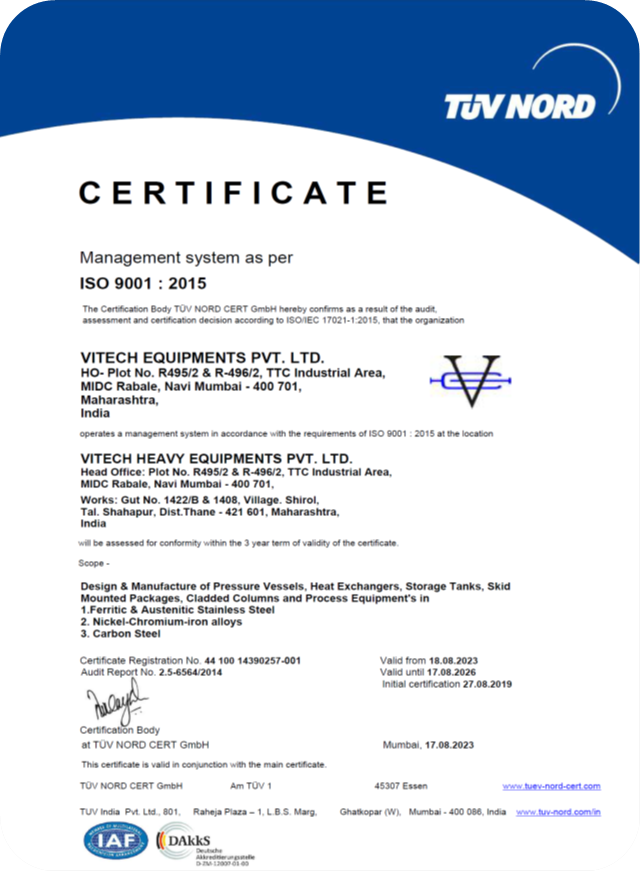
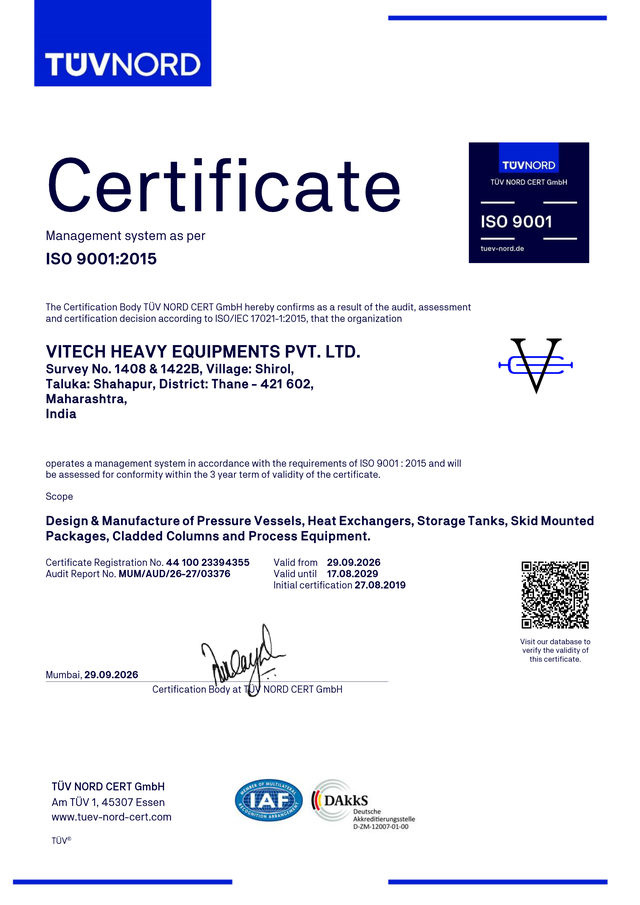
Slides 128-129: update ISO certificates to 2026 TUV NORD issues
Replace the four expiring cert scans with the newly issued ones
(all valid until 17.08.2029):
- 128: VHEPL ISO 9001 (44 100 23394355), VEPL ISO 9001 (44 100 14390257)
- 129: VHEPL ISO 14001 (44 104 21393201), ISO 45001 (44 126 21393201)

Rendered from the source PDFs at 4x and downscaled to the existing
asset dimensions, so the markup is unchanged. Retitled each slide to
the standards it actually shows and refreshed the captions with the
new validity date.

diff --git a/index.html b/index.html
@@ -2117,20 +2117,20 @@
     <section class="slide tpl-gallery" id="s122" data-section="Certifications">
       <div class="slide-inner">
         <div class="eyebrow reveal">ISO</div>
-        <h2 class="slide-title reveal reveal-d1">ISO — QMS, EMS & OHSAS Certifications</h2>
+        <h2 class="slide-title reveal reveal-d1">ISO 9001:2015 — Quality Management Systems</h2>
         
         <div class="gallery-grid reveal reveal-d2" style="grid-template-columns: repeat(2, 1fr)"><div class="media-frame"><img class="media-blur" data-src="assets/images/slides/slide125_img02.png" alt="" aria-hidden="true" loading="lazy"><img class="media-full" data-src="assets/images/slides/slide125_img02.png" alt="" loading="lazy"></div><div class="media-frame"><img class="media-blur" data-src="assets/images/slides/slide125_img03.png" alt="" aria-hidden="true" loading="lazy"><img class="media-full" data-src="assets/images/slides/slide125_img03.png" alt="" loading="lazy"></div></div>
-        <p class="gallery-caption reveal reveal-d3">ISO 9001:2015 QMS (VEPL, Rabale &amp; VHEPL, Shahapur) · ISO 14001:2015 EMS (VHEPL, Shahapur) · ISO 45001:2018 OHSAS (VHEPL, Shahapur)</p>
+        <p class="gallery-caption reveal reveal-d3">ISO 9001:2015 QMS — VHEPL, Shahapur &amp; VEPL, Rabale · Valid until 17.08.2029</p>
       </div>
     </section>
 
     <section class="slide tpl-gallery" id="s123" data-section="Certifications">
       <div class="slide-inner">
         <div class="eyebrow reveal">ISO</div>
-        <h2 class="slide-title reveal reveal-d1">ISO — QMS, EMS & OHSAS Certifications</h2>
+        <h2 class="slide-title reveal reveal-d1">ISO 14001 &amp; 45001 — Environment, Health &amp; Safety</h2>
         
         <div class="gallery-grid reveal reveal-d2" style="grid-template-columns: repeat(2, 1fr)"><div class="media-frame"><img class="media-blur" data-src="assets/images/slides/slide126_img02.png" alt="" aria-hidden="true" loading="lazy"><img class="media-full" data-src="assets/images/slides/slide126_img02.png" alt="" loading="lazy"></div><div class="media-frame"><img class="media-blur" data-src="assets/images/slides/slide126_img03.png" alt="" aria-hidden="true" loading="lazy"><img class="media-full" data-src="assets/images/slides/slide126_img03.png" alt="" loading="lazy"></div></div>
-        <p class="gallery-caption reveal reveal-d3">ISO 14001:2015 EMS · ISO 45001:2018 OHSAS (VHEPL, Shahapur)</p>
+        <p class="gallery-caption reveal reveal-d3">ISO 14001:2015 EMS · ISO 45001:2018 OHSAS — VHEPL, Shahapur · Valid until 17.08.2029</p>
       </div>
     </section>
 
